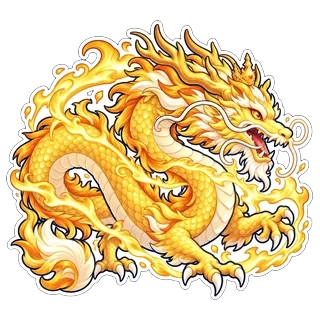
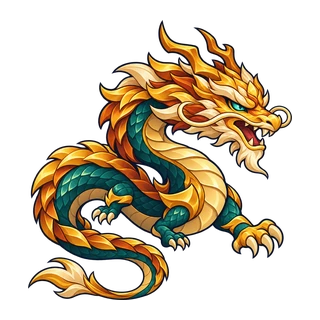
Redesign and re-rig the Eternal Wyrm

diff --git a/src/render/sprites.js b/src/render/sprites.js
@@ -126,7 +126,7 @@ const SHADOW_BOX = { x0: -12, y0: -12, w: 24, h: 24 };
 
 // ================= CREATURES =================
 // Give the repainted monster art fresh URLs for players with the old art cached.
-const MONSTER_ART_REVISION = '?v=3';
+const monsterArtRevision = (id) => id === 'eternal_wyrm' ? '?v=4' : '?v=3';
 
 // Archetypes shipped as painted PNG art (assets/creatures/<sprite>.png). When the
 // image has loaded these replace the vector archetype for every monster of that
@@ -137,7 +137,7 @@ function creatureImage(sprite) {
   if (_creatureImg[sprite] !== undefined) return _creatureImg[sprite];
   if (typeof Image === 'undefined' || !CREATURE_PNGS.has(sprite)) { _creatureImg[sprite] = null; return null; }
   const img = new Image();
-  img.src = `assets/creatures/${sprite}.png${MONSTER_ART_REVISION}`;
+  img.src = `assets/creatures/${sprite}.png${monsterArtRevision()}`;
   _creatureImg[sprite] = img;
   return img;
 }
@@ -198,7 +198,7 @@ function speciesImage(family) {
   if (_speciesImg[family] !== undefined) return _speciesImg[family];
   if (typeof Image === 'undefined') { _speciesImg[family] = null; return null; }
   const img = new Image();
-  img.src = `assets/creatures/species/${speciesFile(family)}.webp${MONSTER_ART_REVISION}`;
+  img.src = `assets/creatures/species/${speciesFile(family)}.webp${monsterArtRevision()}`;
   _speciesImg[family] = img;
   return img;
 }
@@ -234,11 +234,12 @@ const artTint = (npcId, def) => (def.boss && bossFile(npcId) ? (BOSS_ART.has(npc
   : SPECIES_ART.has(def.family) ? null : SPECIES_TINT[def.family]) || null;
 const _bossImg = {};
 function bossImage(id) {
-  if (!id || !bossFile(id)) return null;
+  const file = id && bossFile(id);
+  if (!file) return null;
   if (_bossImg[id] !== undefined) return _bossImg[id];
   if (typeof Image === 'undefined') { _bossImg[id] = null; return null; }
   const img = new Image();
-  img.src = `assets/creatures/bosses/${bossFile(id)}.webp${MONSTER_ART_REVISION}`;
+  img.src = `assets/creatures/bosses/${file}.webp${monsterArtRevision(file)}`;
   _bossImg[id] = img;
   return img;
 }
@@ -398,11 +399,11 @@ const RIGS = {
     },
   },
   eternal_wyrm: {
-    order: ['tail', 'base', 'claw', 'head'],
+    order: ['tail', 'claw', 'base', 'head'],
     parts: {
-      tail: { piv: [0.2587, 0.7345], swing: (t, o) => Math.sin(t * (o.moving ? 0.009 : 0.0045)) * 0.12 },
-      claw: { piv: [0.7627, 0.6865], swing: (t, o) => { const a = atkPhase(o.attackK ?? -1); return a ? -0.14 * a.wind + 0.12 * a.hit : Math.sin(t * 0.0035 + 1) * 0.05; } },
-      head: { piv: [0.6188, 0.5185], swing: (t, o) => {
+      tail: { piv: [0.4152, 0.7822], swing: (t, o) => Math.sin(t * (o.moving ? 0.009 : 0.0045)) * 0.12 },
+      claw: { piv: [0.6989, 0.6441], swing: (t, o) => { const a = atkPhase(o.attackK ?? -1); return a ? -0.14 * a.wind + 0.12 * a.hit : Math.sin(t * 0.0035 + 1) * 0.05; } },
+      head: { piv: [0.4571, 0.3255], swing: (t, o) => {
         const a = atkPhase(o.attackK ?? -1);
         const roar = o.castK > 0 ? -0.06 * Math.sin(o.castK * Math.PI) : 0;   // rears up to roar on its signature move
         return (a ? -0.06 * a.wind + 0.07 * a.hit : Math.sin(t * 0.0021) * 0.035) + roar;
@@ -547,7 +548,7 @@ const rigFiles = (rig) => rig.files || rig.order;
 function rigLayers(id, rig = RIGS[id]) {
   if (!rig || typeof Image === 'undefined') return null;
   const imgs = _rigImg[id] || (_rigImg[id] = Object.fromEntries(rigFiles(rig).map((n) => {
-    const revision = rig.kind === 'town' ? townArtRevision(id) : MONSTER_ART_REVISION;
+    const revision = rig.kind === 'town' ? townArtRevision(id) : monsterArtRevision(id);
     const img = new Image();
     img.src = `assets/creatures/${rigDir(rig.kind)}/${id}_${n}.webp${revision}`;
     return [n, img];
@@ -846,10 +847,11 @@ export const puppetKinds = () => ({ ...PUPPET_KIND });
 /** A boss or champion's portrait for the battle bar: its painted art and where
  *  in the picture its head is (as a CSS background-position), or null. */
 export function portraitFor(npcId, def) {
-  const key = def.boss && bossFile(npcId) ? `bosses/${bossFile(npcId)}`
+  const boss = def.boss && bossFile(npcId);
+  const key = boss ? `bosses/${boss}`
     : speciesFile(def.family) ? `species/${speciesFile(def.family)}` : null;
   if (!key) return null;
-  const src = `assets/creatures/${key}.webp${MONSTER_ART_REVISION}`;
+  const src = `assets/creatures/${key}.webp${monsterArtRevision(boss)}`;
   const tint = artTint(npcId, def);
   return { src, ...portraitFrame(key, def), tint };
 }

diff --git a/src/data/portraitcrops.js b/src/data/portraitcrops.js
@@ -196,7 +196,7 @@ export const PORTRAIT_CROPS = {
   'bosses/drowned_admiral': [0.498, 0.529, 0.751, 0.751],
   'bosses/durian_behemoth': [0.498, 0.546, 0.653, 0.653],
   'bosses/duyung_queen': [0.5, 0.524, 0.679, 0.679],
-  'bosses/eternal_wyrm': [0.498, 0.447, 0.787, 0.787],
+  'bosses/eternal_wyrm': [0.662, 0.366, 0.578, 0.578],
   'bosses/fenghuang': [0.5, 0.539, 0.723, 0.723],
   'bosses/goblin_warchief': [0.498, 0.482, 0.746, 0.746],
   'bosses/great_argus_monarch': [0.5, 0.564, 0.62, 0.62],

diff --git a/tools/portrait_crops.py b/tools/portrait_crops.py
@@ -4,6 +4,8 @@ from PIL import Image
 root = sys.argv[1]
 out = {}
 HEAD_RIGHT = {'wild_arowana'}   # long, low pictures with the head on the right
+# The Wyrm's coiled body takes up most of its picture, so frame the face by hand.
+FACE_FRAMES = {'bosses/eternal_wyrm': (212, 117, 185)}
 for sub in ('species', 'bosses'):
     d = os.path.join(root, 'assets/creatures', sub)
     for f in sorted(os.listdir(d)):
@@ -24,7 +26,9 @@ for sub in ('species', 'bosses'):
             side = max(bh * 1.5, bw * 0.55)
             cx = x1 - side / 2 + side * 0.04
         cy = y0 + side / 2 - side * 0.04 if bh >= bw * 1.1 else (y0 + y1) / 2 - bh * 0.06
-        out[f'{sub}/{f[:-5]}'] = [round(cx / W, 3), round(cy / H, 3), round(side / W, 3), round(side / H, 3)]
+        key = f'{sub}/{f[:-5]}'
+        cx, cy, side = FACE_FRAMES.get(key, (cx, cy, side))
+        out[key] = [round(cx / W, 3), round(cy / H, 3), round(side / W, 3), round(side / H, 3)]
 lines = ',\n'.join(f"  '{k}': {json.dumps(v)}" for k, v in out.items())
 print(f"""// Portrait framing for the creature pictures, measured from each picture's
 // painted area (made by tools/portrait_crops.py; re-run it when art changes).
